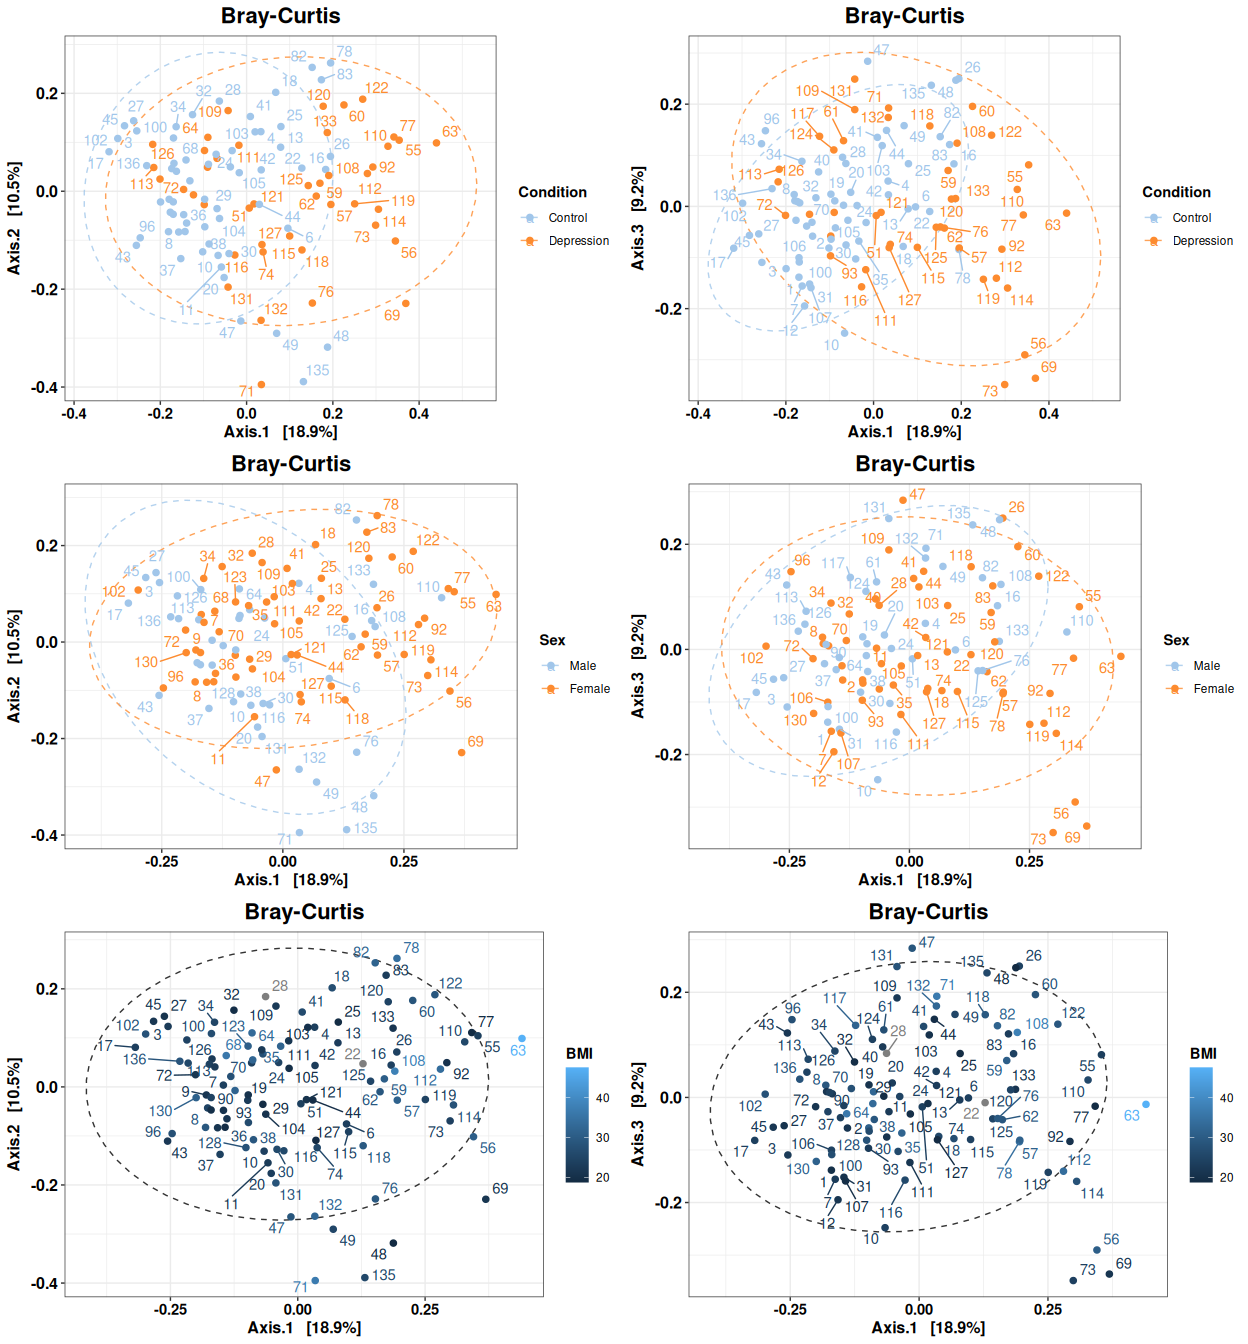
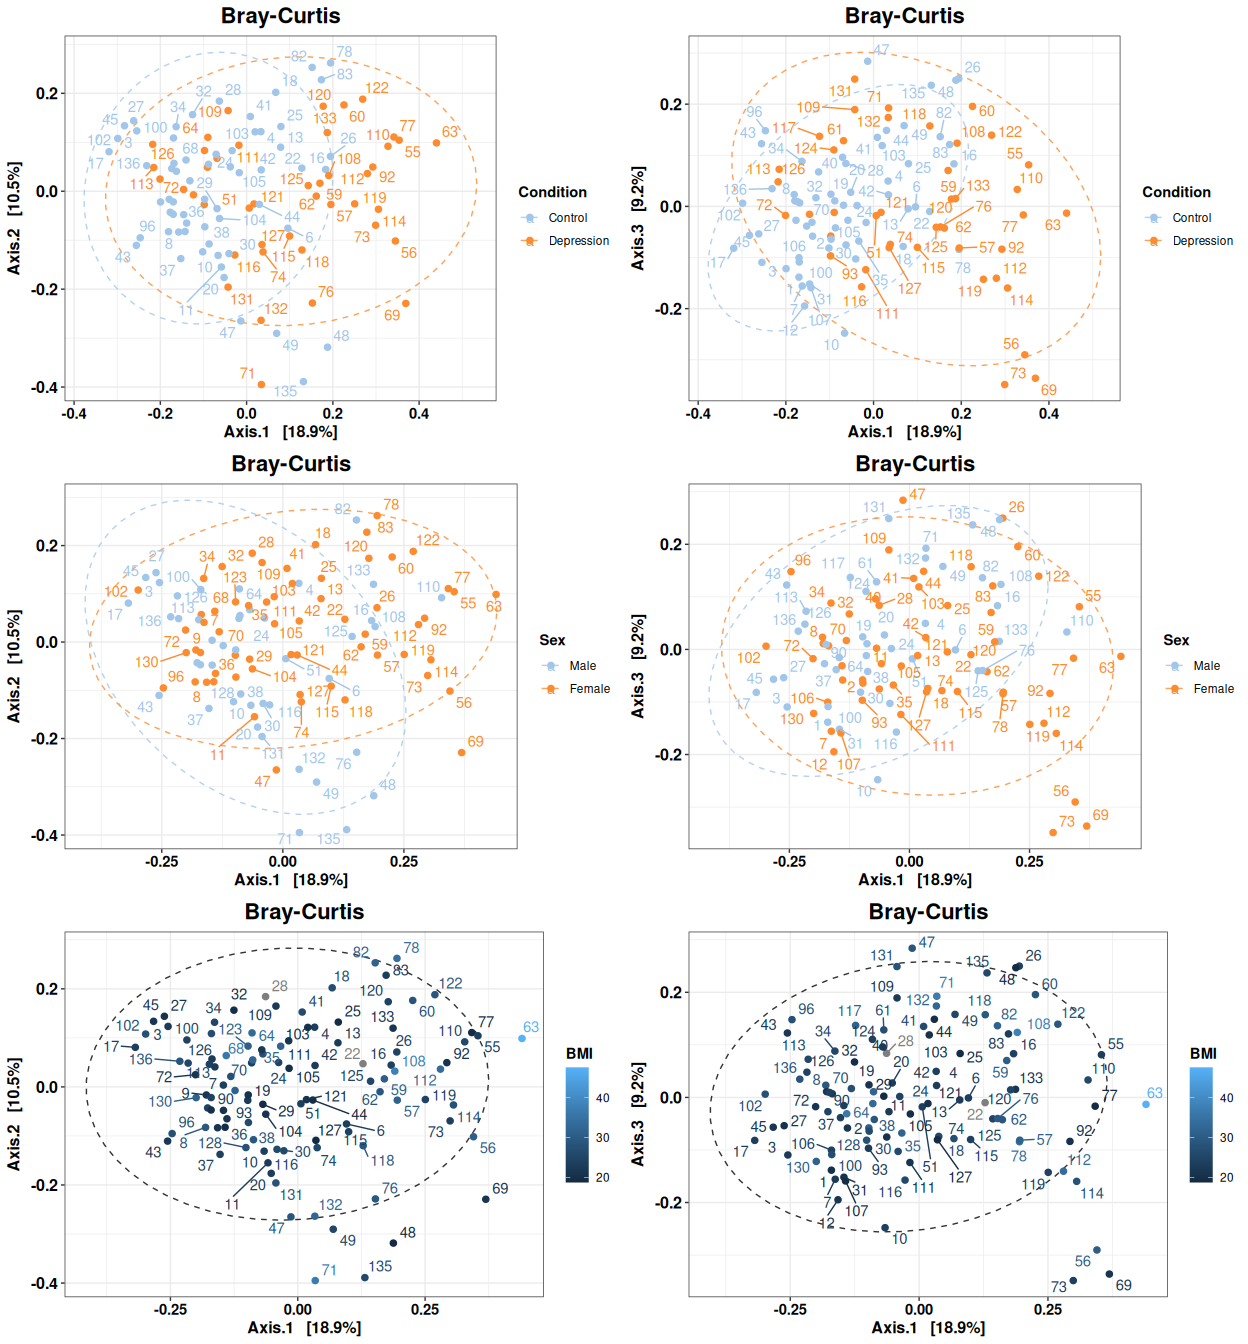
modified readme

diff --git a/README.md b/README.md
@@ -259,38 +259,39 @@ betaplots <- makeAllPCoAs(phobj_raref, outdir,
 #> Square root transformation
 #> Wisconsin double standardization
 #> Run 0 stress 0.2424031 
-#> Run 1 stress 0.2451518 
-#> Run 2 stress 0.2414116 
+#> Run 1 stress 0.2443403 
+#> Run 2 stress 0.2453728 
+#> Run 3 stress 0.2423611 
 #> ... New best solution
-#> ... Procrustes: rmse 0.02584181  max resid 0.2067943 
-#> Run 3 stress 0.2430303 
-#> Run 4 stress 0.2447278 
-#> Run 5 stress 0.2414118 
-#> ... Procrustes: rmse 0.0002327242  max resid 0.001200414 
-#> ... Similar to previous best
-#> Run 6 stress 0.241823 
-#> ... Procrustes: rmse 0.02236939  max resid 0.1450639 
-#> Run 7 stress 0.241074 
+#> ... Procrustes: rmse 0.01056373  max resid 0.08251605 
+#> Run 4 stress 0.2448805 
+#> Run 5 stress 0.2424755 
+#> ... Procrustes: rmse 0.01059435  max resid 0.09719754 
+#> Run 6 stress 0.2423265 
 #> ... New best solution
-#> ... Procrustes: rmse 0.008858315  max resid 0.0787398 
-#> Run 8 stress 0.2418288 
-#> Run 9 stress 0.2444151 
-#> Run 10 stress 0.2504021 
-#> Run 11 stress 0.2417249 
-#> Run 12 stress 0.2418238 
-#> Run 13 stress 0.2418369 
-#> Run 14 stress 0.2479119 
-#> Run 15 stress 0.2421172 
-#> Run 16 stress 0.2414217 
-#> ... Procrustes: rmse 0.01309684  max resid 0.125387 
-#> Run 17 stress 0.2412971 
-#> ... Procrustes: rmse 0.007323474  max resid 0.05759286 
-#> Run 18 stress 0.2418288 
-#> Run 19 stress 0.2428719 
-#> Run 20 stress 0.2443353 
+#> ... Procrustes: rmse 0.01158079  max resid 0.08677874 
+#> Run 7 stress 0.2451656 
+#> Run 8 stress 0.2413875 
+#> ... New best solution
+#> ... Procrustes: rmse 0.03638126  max resid 0.2036798 
+#> Run 9 stress 0.2466801 
+#> Run 10 stress 0.2428797 
+#> Run 11 stress 0.2418506 
+#> ... Procrustes: rmse 0.009664707  max resid 0.09101485 
+#> Run 12 stress 0.2683218 
+#> Run 13 stress 0.2485375 
+#> Run 14 stress 0.2425272 
+#> Run 15 stress 0.2452056 
+#> Run 16 stress 0.2411033 
+#> ... New best solution
+#> ... Procrustes: rmse 0.0183157  max resid 0.1574724 
+#> Run 17 stress 0.2428799 
+#> Run 18 stress 0.2423011 
+#> Run 19 stress 0.2448276 
+#> Run 20 stress 0.2416822 
 #> *** Best solution was not repeated -- monoMDS stopping criteria:
-#>      1: no. of iterations >= maxit
-#>     19: stress ratio > sratmax
+#>      2: no. of iterations >= maxit
+#>     18: stress ratio > sratmax
 
 cowplot::plot_grid(plotlist = betaplots, nrow = 1)
 ```
@@ -468,12 +469,12 @@ contrastlist2 <- list(
   result$all_contrasts$Age$resdf
 ) %>% lapply(\(x)return(list(resdf=x)))
 
-names(contrastlist2) <- c( "Sex", "Age")
+names(contrastlist2) <- c( "Sex_Female_vs_Male", "Age")
 
-contrast_names_pretty <- c("Depression vs Control",  "Sex Female vs Male", "Age")
+contrast_names_ordered <- c("Depression vs Control",  gsub("_", " ", names(contrastlist2)))
 
 compareLFCContrats2(contrastlist2, mainContrast, 
-                   contrast_names_pretty, "Depression_vs_Control", 
+                   contrast_names_ordered, "Depression_vs_Control", 
                    plim_select= 0.001, plim_plot=0.05,
                    name2remove = "xxx",
                    resdfname="resdf", 
